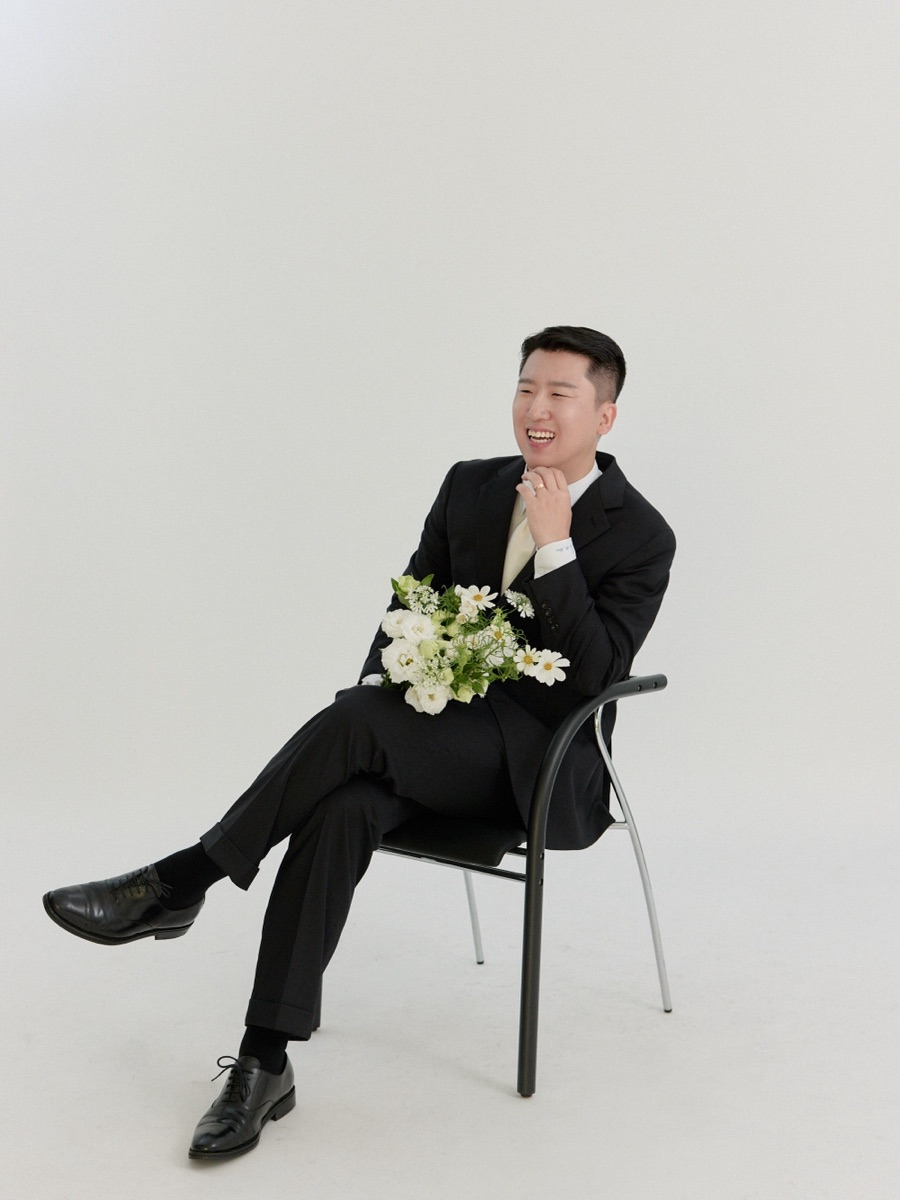
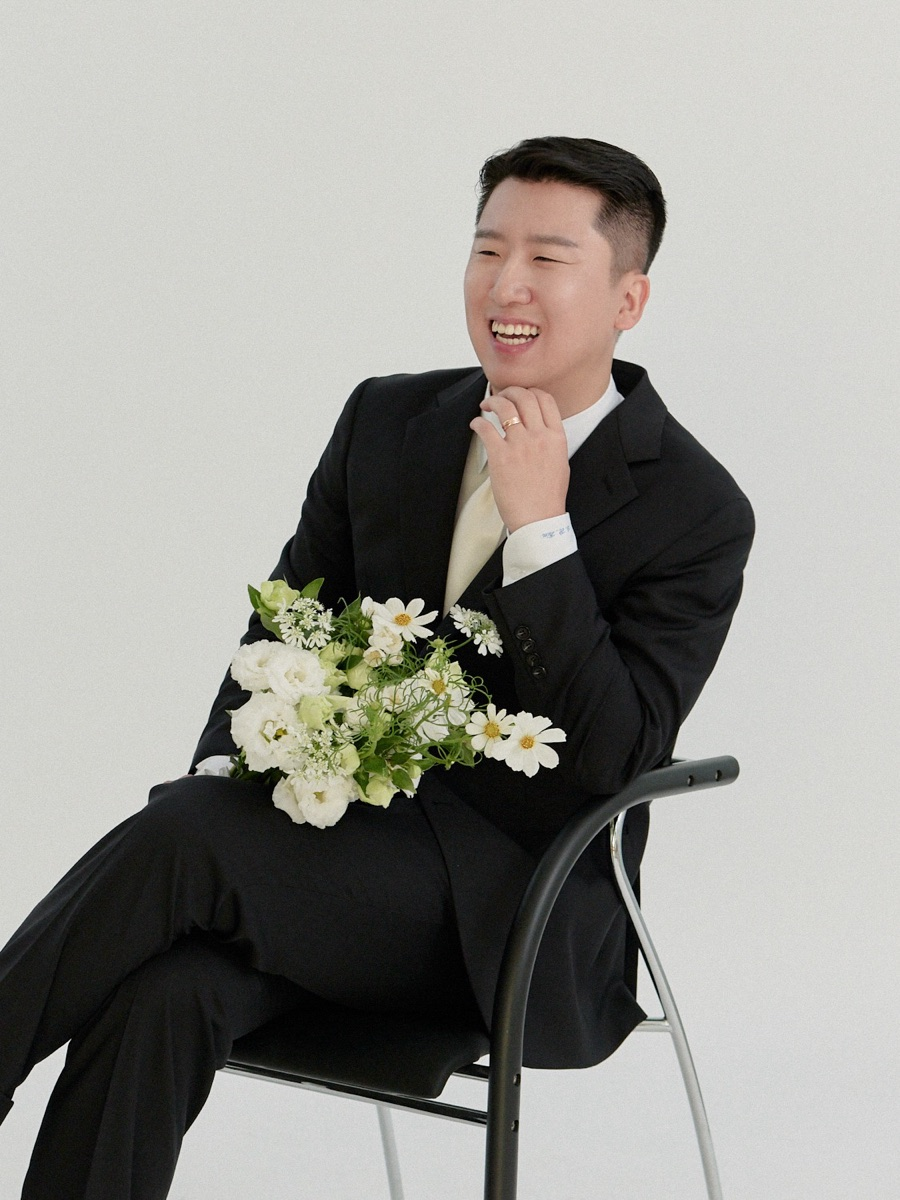
sec ver

diff --git a/index.html b/index.html
@@ -355,7 +355,7 @@
 
   <!-- 풀블리드 무드 사진 -->
   <figure class="ed bleed" data-cursor="HOLD" style="position:relative">
-    <img src="https://picsum.photos/id/1043/1200/1000" alt="" loading="lazy"/>
+    <img src="./images/bleed.jpg" alt="" loading="lazy"/>
     <figcaption class="cap">Chapter one — where it begins</figcaption>
   </figure>
 
@@ -393,11 +393,11 @@
       <div class="h-wm" aria-hidden="true">03</div>
       <div class="h-head"><span class="ln-s"></span><span class="kicker">Selected Moments</span><span class="ln-s"></span></div>
       <div class="h-track" id="hTrack">
-        <figure class="ed h-shot" data-cursor="HOLD"><img src="https://picsum.photos/id/1062/700/940" alt="" loading="lazy"/><span class="num">001</span><span class="reveal-cap">first light</span></figure>
-        <figure class="ed h-shot" data-cursor="HOLD"><img src="https://picsum.photos/id/1074/700/940" alt="" loading="lazy"/><span class="num">002</span><span class="reveal-cap">the long way</span></figure>
-        <figure class="ed h-shot" data-cursor="HOLD"><img src="https://picsum.photos/id/1025/700/940" alt="" loading="lazy"/><span class="num">003</span><span class="reveal-cap">closer</span></figure>
-        <figure class="ed h-shot" data-cursor="HOLD"><img src="https://picsum.photos/id/103/700/940" alt="" loading="lazy"/><span class="num">004</span><span class="reveal-cap">golden hour</span></figure>
-        <figure class="ed h-shot" data-cursor="HOLD"><img src="https://picsum.photos/id/1056/700/940" alt="" loading="lazy"/><span class="num">005</span><span class="reveal-cap">us, now</span></figure>
+        <figure class="ed h-shot" data-cursor="HOLD"><img src="./images/g1.jpg" alt="" loading="lazy"/><span class="num">001</span><span class="reveal-cap">first chapters</span></figure>
+        <figure class="ed h-shot" data-cursor="HOLD"><img src="./images/g2.jpg" alt="" loading="lazy"/><span class="num">002</span><span class="reveal-cap">through your lens</span></figure>
+        <figure class="ed h-shot" data-cursor="HOLD"><img src="./images/g3.jpg" alt="" loading="lazy"/><span class="num">003</span><span class="reveal-cap">the two of us</span></figure>
+        <figure class="ed h-shot" data-cursor="HOLD"><img src="./images/g4.jpg" alt="" loading="lazy"/><span class="num">004</span><span class="reveal-cap">just being us</span></figure>
+        <figure class="ed h-shot" data-cursor="HOLD"><img src="./images/g5.jpg" alt="" loading="lazy"/><span class="num">005</span><span class="reveal-cap">one more frame</span></figure>
       </div>
       <div class="h-progress"><span id="hBar"></span></div>
       <div class="h-hint">Scroll ↓ · 사진을 누르면 컬러로 현상됩니다</div>